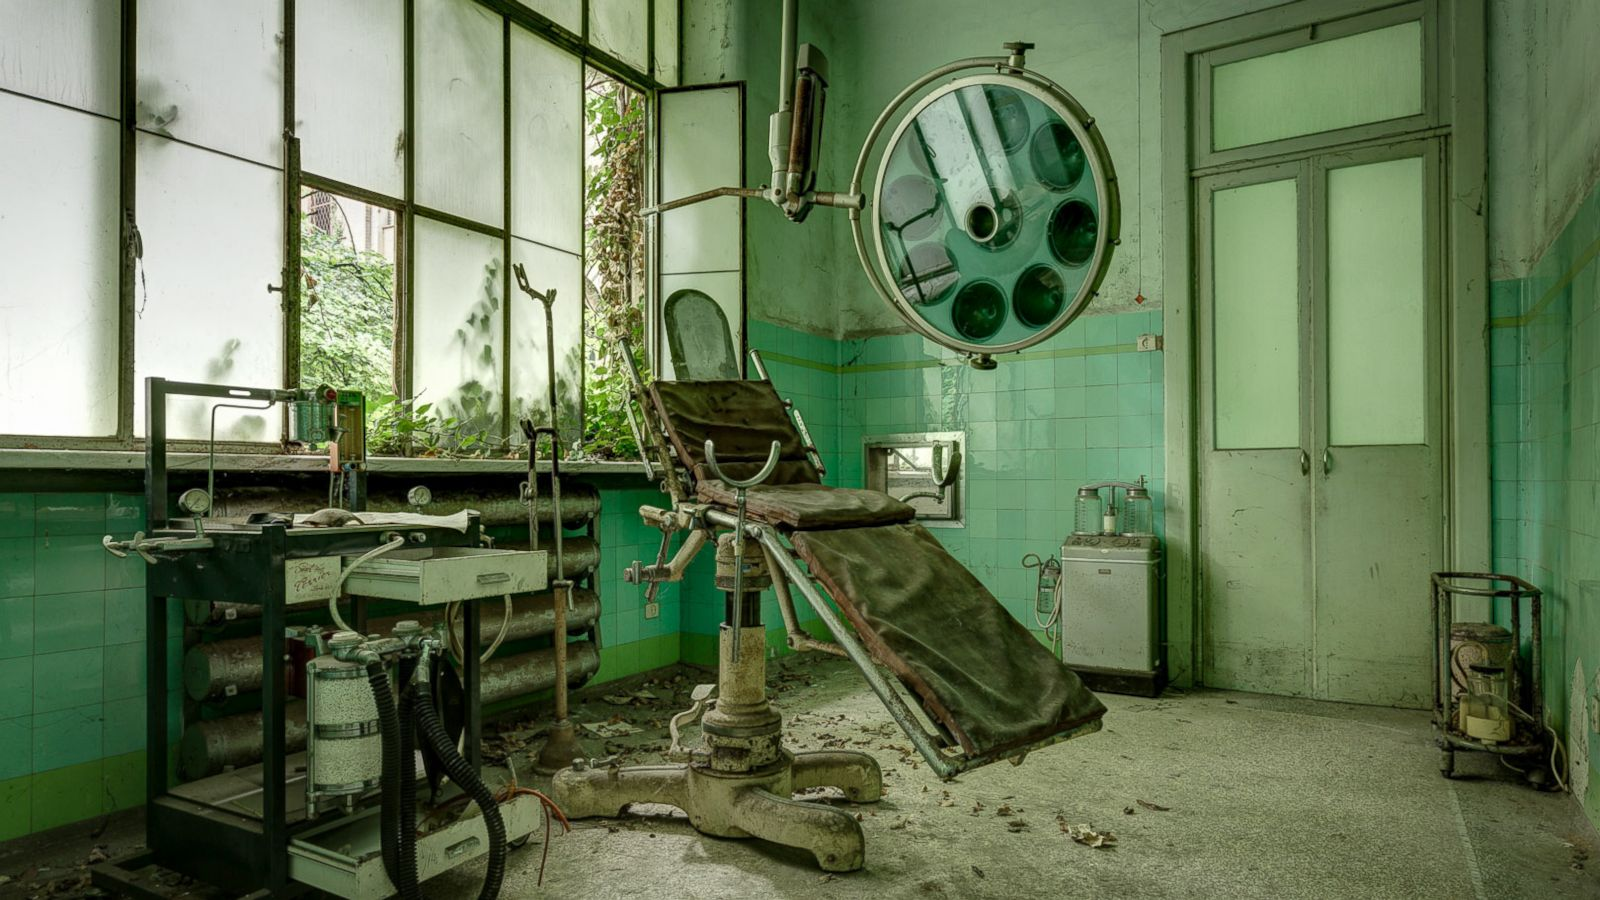
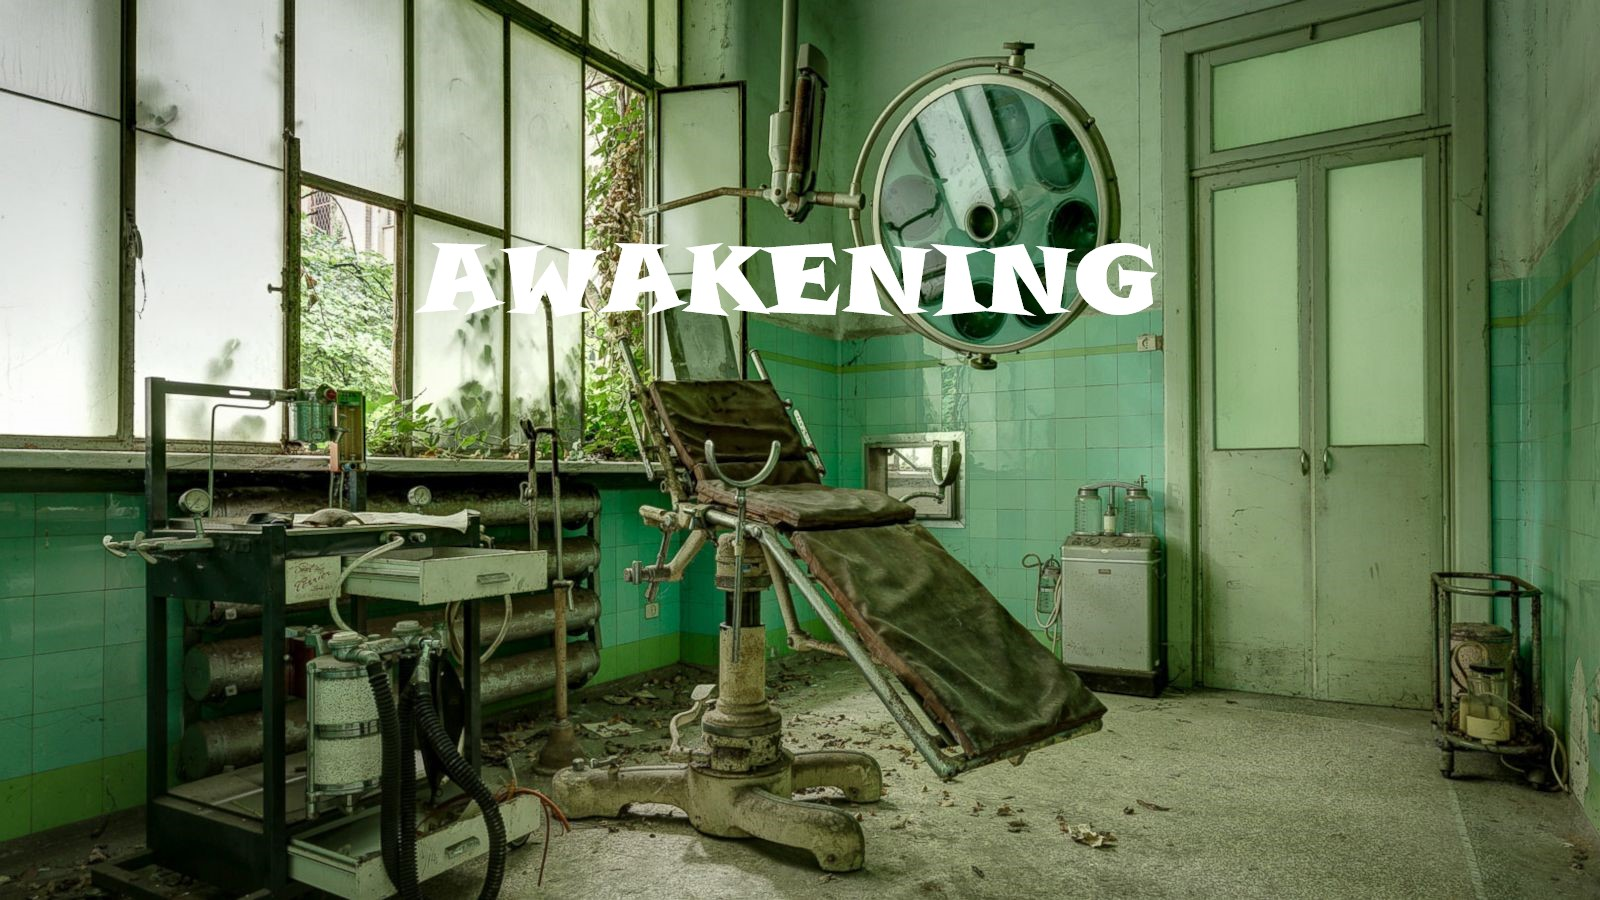
Set up a window and Game title appears in a window, AB#717

Changed region(s): [[0.25, 0.2489, 0.7188, 0.3733]]

diff --git a/src/com/awakening/app/GameGUI.java b/src/com/awakening/app/GameGUI.java
@@ -1,0 +1,66 @@
+package com.awakening.app;
+
+import javax.swing.*;
+import javax.swing.plaf.metal.MetalBorders;
+import java.awt.*;
+import java.util.stream.Collectors;
+
+class GameGUI {
+    JFrame window;
+    Container container;
+    JPanel titleNamePanel;
+    JLabel backgroundPicture;
+    ImageIcon titleBackgroundImg;
+    JButton startButton, instructionButton, quitButton;
+    // customized font
+    Font titleFont = new Font("Times new Roman", Font.PLAIN, 90);
+
+    public static void main(String[] args) {
+        new GameGUI();
+    }
+
+    public GameGUI(){
+        int winX = 1200;
+        int winY = 800;
+        // Title Background Image
+        titleBackgroundImg = new ImageIcon("resources\\pictures\\titlescreen.jpg");
+        backgroundPicture = new JLabel(titleBackgroundImg);
+        backgroundPicture.setSize(winX, winY);
+
+        // Window
+        window = new JFrame();
+        window.setSize(winX, winY);
+        window.setDefaultCloseOperation(JFrame.EXIT_ON_CLOSE);
+        window.getContentPane().setBackground(Color.black);
+        window.setTitle("Awakening");
+        window.add(backgroundPicture);
+        window.setLayout(null);
+        window.setVisible(true);
+        window.setResizable(false);
+
+        container  = window.getContentPane();
+
+        //Start Game Button
+        startButton = new JButton("New Game");
+        startButton.setBounds(winX/2 - 200, 550, 150, 50);
+        startButton.setBorder(new MetalBorders.MenuItemBorder());
+        startButton.setFont(new Font("Times new Roman", Font.BOLD, 20));
+
+        // Instruction Button
+        instructionButton = new JButton("Instructions");
+        instructionButton.setBounds(winX/2, 550, 150, 50);
+        instructionButton.setBorder(new MetalBorders.MenuItemBorder());
+        instructionButton.setFont(new Font("Times new Roman", Font.BOLD, 20));
+
+        // Quit Game Button
+        quitButton = new JButton("Quit");
+        quitButton.setBounds(winX-100, 25, 50, 25);
+        quitButton.setBorder(new MetalBorders.MenuItemBorder());
+        quitButton.setFont(new Font("Times new Roman", Font.BOLD, 20));
+
+        backgroundPicture.add(startButton);
+        backgroundPicture.add(instructionButton);
+        backgroundPicture.add(quitButton);
+
+    }
+}
